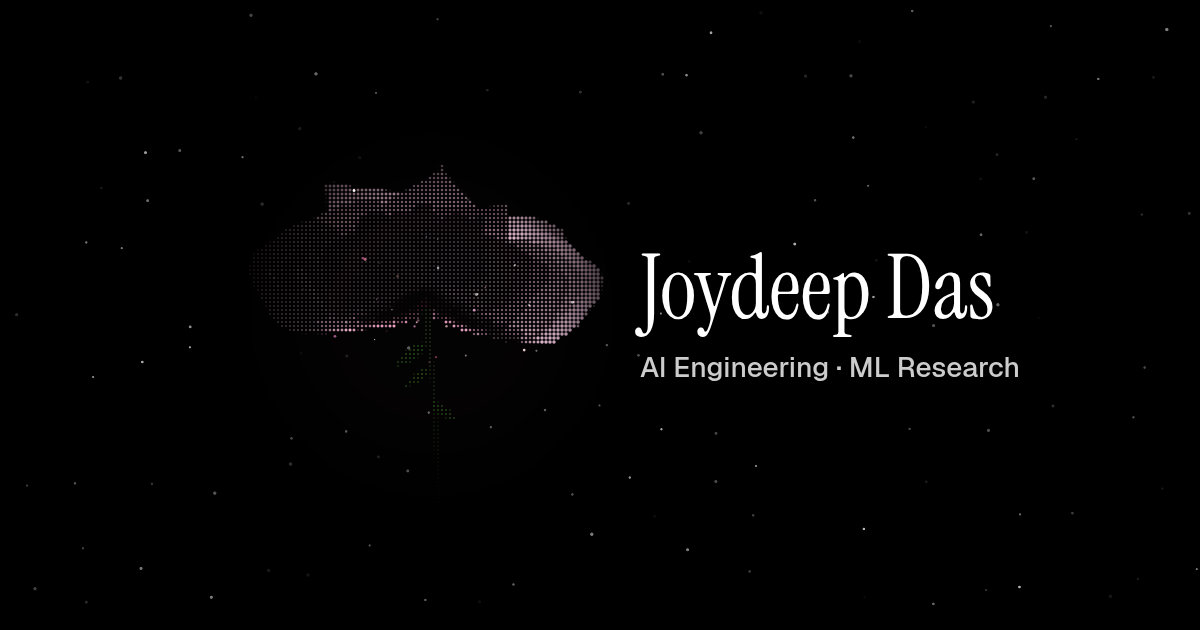
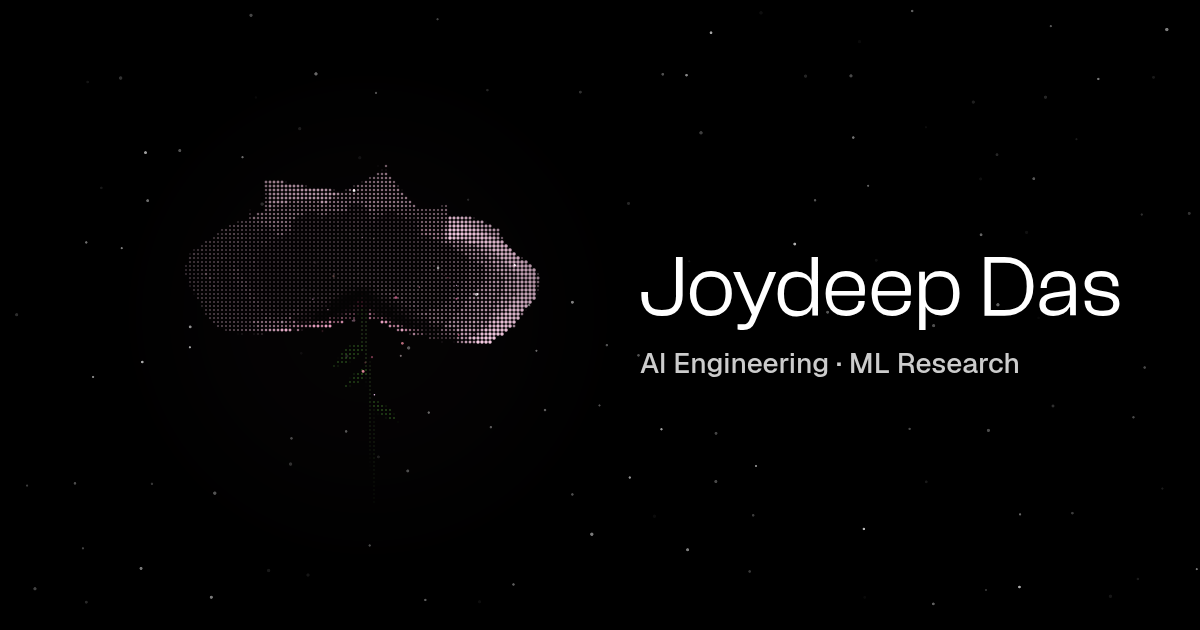
feat: Clash Grotesk display face

Changed region(s): [[0.1542, 0.2714, 0.9558, 0.6032]]

diff --git a/src/styles/tokens.css b/src/styles/tokens.css
@@ -1,11 +1,11 @@
-@font-face { font-family: 'Instrument Serif'; font-weight: 400; font-style: normal; font-display: swap; src: url('/fonts/instrument-serif-400.woff2') format('woff2'); }
+@font-face { font-family: 'Clash Grotesk'; font-weight: 400; font-style: normal; font-display: swap; src: url('/fonts/clash-grotesk-400.woff2') format('woff2'); } /* ITF Free Font License, Indian Type Foundry */
 @font-face { font-family: 'Geist'; font-weight: 400; font-style: normal; font-display: swap; src: url('/fonts/geist-400.woff2') format('woff2'); }
 @font-face { font-family: 'Geist'; font-weight: 500; font-style: normal; font-display: swap; src: url('/fonts/geist-500.woff2') format('woff2'); }
 @font-face {
   font-family: 'Geist Mono'; /* taste-skill-ignore: R2, mono only for ASCII placeholders */ font-weight: 400; font-style: normal; font-display: swap; src: url('/fonts/geist-mono-400.woff2') format('woff2'); }
 
 /* Metric-matched fallbacks: size-adjust = web avg lowercase advance / local avg; overrides = web metric / size-adjust. */
-@font-face { font-family: 'Instrument Serif Fallback'; src: local('Georgia'); size-adjust: 79.6%; ascent-override: 124.4%; descent-override: 38.9%; line-gap-override: 0%; }
+@font-face { font-family: 'Clash Grotesk Fallback'; src: local('Arial'), local('Liberation Sans'); size-adjust: 102.6%; ascent-override: 86.7%; descent-override: 24.4%; line-gap-override: 8.8%; }
 @font-face { font-family: 'Geist Fallback'; src: local('Arial'); size-adjust: 109%; ascent-override: 92.2%; descent-override: 27.1%; line-gap-override: 0%; }
 
 :root {

diff --git a/tests/e2e/fonts.test.js b/tests/e2e/fonts.test.js
@@ -14,9 +14,9 @@ test('fonts load', async () => {
   const { page, browser } = await openPage(srv.url, { width: 1280 });
   try {
     const r = await page.evaluate(async () => {
-      await document.fonts.load('16px Geist'); await document.fonts.load('48px "Instrument Serif"');
+      await document.fonts.load('16px Geist'); await document.fonts.load('48px "Clash Grotesk"');
       await document.fonts.ready;
-      return [document.fonts.check('16px Geist'), document.fonts.check('48px "Instrument Serif"')];
+      return [document.fonts.check('16px Geist'), document.fonts.check('48px "Clash Grotesk"')];
     });
     assert.deepEqual(r, [true, true]);
   } finally { await browser.close(); await srv.close(); }

diff --git a/index.html b/index.html
@@ -10,7 +10,7 @@
     <meta property="og:description" content="Local-first retrieval and agent systems, and controlled studies of video quality models." />
     <meta property="og:type" content="website" />
     <meta name="twitter:card" content="summary_large_image" />
-    <link rel="preload" href="/fonts/instrument-serif-400.woff2" as="font" type="font/woff2" crossorigin />
+    <link rel="preload" href="/fonts/clash-grotesk-400.woff2" as="font" type="font/woff2" crossorigin />
     <link rel="preload" href="/fonts/geist-400.woff2" as="font" type="font/woff2" crossorigin />
     <meta name="theme-color" content="#000000" />
     <script>document.documentElement.classList.add('js')</script>

diff --git a/src/sections/Hero.jsx b/src/sections/Hero.jsx
@@ -24,8 +24,8 @@ export const Hero = () => {
       className="relative min-h-[100svh] w-full flex flex-col justify-end lg:justify-center pointer-events-none px-5 md:px-12 pb-16 lg:pb-0 lg:pl-[56vw] lg:pr-12"
     >
       <div className="pointer-events-auto">
-        <h1 id="hero-title" className="font-display text-display text-text tracking-[-0.02em]">
-          <span className="block pb-[0.15em] -mb-[0.15em]">{hero.name}</span>
+        <h1 id="hero-title" className="font-display text-display text-text tracking-[-0.03em] lg:w-min">
+          {hero.name}
         </h1>
         <div>
           <p className="text-lg text-text mt-4">{hero.role}</p>

diff --git a/src/components/Footer.jsx b/src/components/Footer.jsx
@@ -5,6 +5,7 @@ export const Footer = () => (
   <footer className="relative z-10 px-5 md:px-12 lg:pl-[38vw] lg:pr-12 pb-12">
     <div className="lg:max-w-[680px] flex flex-wrap items-baseline justify-between gap-4 text-sm">
       <p className="text-text-muted">© {new Date().getFullYear()} Joydeep Das</p>
+      <p className="text-text-muted">Set in Clash Grotesk by Indian Type Foundry and Geist</p>
       <ExternalLink href={PORTFOLIO_DATA.contact.sourceUrl} className="min-h-11 inline-flex items-center text-text-muted hover:text-text">
         Source
       </ExternalLink>

diff --git a/tailwind.config.js b/tailwind.config.js
@@ -21,7 +21,7 @@ export default {
         ember: 'var(--ember)',
       },
       fontFamily: {
-        display: ['"Instrument Serif"', '"Instrument Serif Fallback"', 'Georgia', 'serif'],
+        display: ['"Clash Grotesk"', '"Clash Grotesk Fallback"', 'Arial', 'sans-serif'],
         sans: ['Geist', '"Geist Fallback"', 'Arial', 'sans-serif'],
         mono: ['"Geist Mono"', 'ui-monospace', 'monospace'],
       },

diff --git a/DESIGN.md b/DESIGN.md
@@ -22,7 +22,7 @@ Self-hosted WOFF2, Latin subset, `font-display: swap`, with metric-matched fallb
 
 | Family (Tailwind) | Face | Use |
 |---|---|---|
-| `font-display` | Instrument Serif 400, no italics | Headings at 40 px or larger only |
+| `font-display` | Clash Grotesk 400 (ITF Free Font License, credited in the footer) | The name, section headings and project titles; tracking -0.02 to -0.03em |
 | `font-sans` | Geist 400 / 500 | All UI and body copy; metadata uses `tabular-nums` |
 | `font-mono` | Geist Mono 400 | ASCII placeholders and the engine's glyph atlas only |
 
@@ -46,7 +46,7 @@ Scale: `xs 12 · sm 14 · base 16 · lg 20 · xl 28 · 2xl 40 · display clamp(4
 
 ## Primitives (`src/components/ui/`)
 
-`SectionHeading` (display-serif heading with line reveal), `Reveal`, `Chip` (surface tone, `text-muted`, `text-xs`, tabular numerals), `ExternalLink` (new tab, `noopener noreferrer`, draw-in underline).
+`SectionHeading` (display heading with line reveal), `Reveal`, `ExternalLink` (new tab, `noopener noreferrer`, draw-in underline).
 
 ## Rules
 

diff --git a/README.md b/README.md
@@ -39,3 +39,5 @@ Set `VITE_SITE_URL` (for example `https://example.com`, without a trailing slash
 
 - Screenshots for S.P.E.A.K. and VGC-Telemetry are missing. Their cards show the ASCII placeholder until a 1440 x 900 dark-UI WebP is added. To complete one, save it to `public/work/` and run `node scripts/ascii-placeholders.mjs`, which regenerates `src/data/placeholders.json`, then set that project's `image` in `content.js`.
 - The AxiomLM demo clip (WebM, 10 to 15 seconds, under 1.5 MB) is not yet made. The clip goes in `links.demo` for AxiomLM in `content.js`. Until then the project shows its image and no demo link.
+
+Type: Clash Grotesk by [Indian Type Foundry](https://www.fontshare.com/fonts/clash-grotesk) (ITF Free Font License, self-hosted in `public/fonts`) and Geist.
